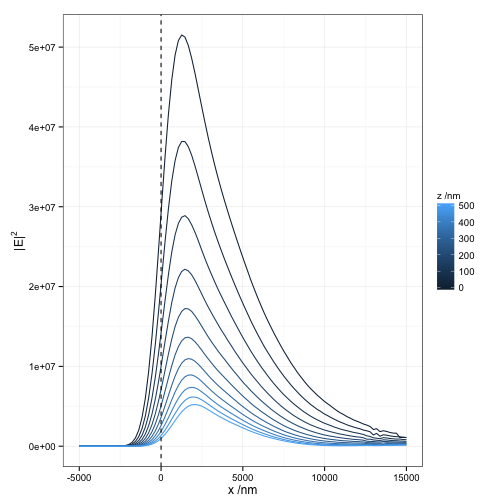
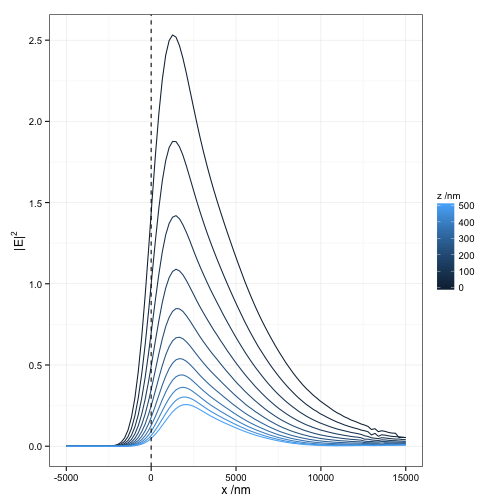
gaussian

diff --git a/src/gaussian_beam.cpp b/src/gaussian_beam.cpp
@@ -110,7 +110,7 @@ arma::colvec integrand_gb(const colvec& rt, const colvec& r2, const double ki, \
     // work out kz component
     ki1(0) = ki*sx;
     ki1(1) = ki*sy;
-    ki1(2) = ki*sqrt(1 - sx*sx - sy*sy); // only real freqs.
+    ki1(2) = sqrt(ki*ki - ki1(0)*ki1(0) - ki1(1)*ki1(1)); // only real freqs.
 
     // incident field polarisation and distribution
     ei1 = incident_field(psi);
@@ -184,7 +184,8 @@ arma::colvec integrand_gb(const colvec& rt, const colvec& r2, const double ki, \
     // incident plane wave
     pw = exp(i*(ki2(0)*r2(0) + ki2(1)*r2(1) + sqrt(ko*ko - ki2(0)*ki2(0) +0.0*i)*r2(2)));
 
-    Eo2 = rho * a * pw  * Rzi * eo2p;
+    // Eo2 = rho * a * pw  * Rzi * eo2p;
+    Eo2 = rho*ki*ki * a * pw  * Rzi * eo2p;
 
     // join real and imaginary part in 6-vector for cubature::adaptIntegrate
     colvec Er = real(Eo2);
